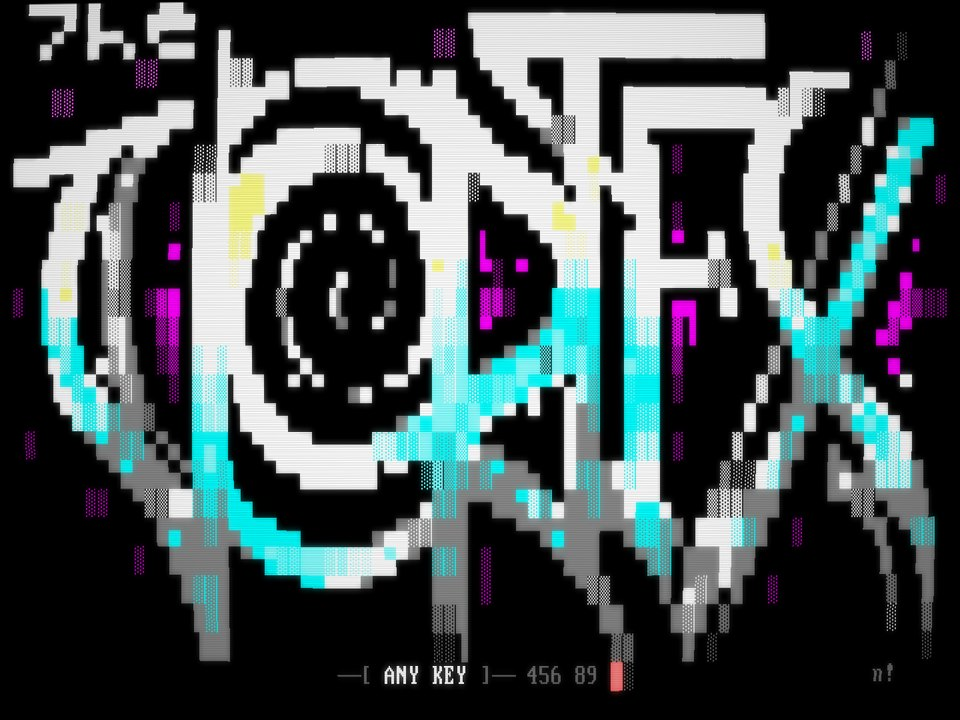
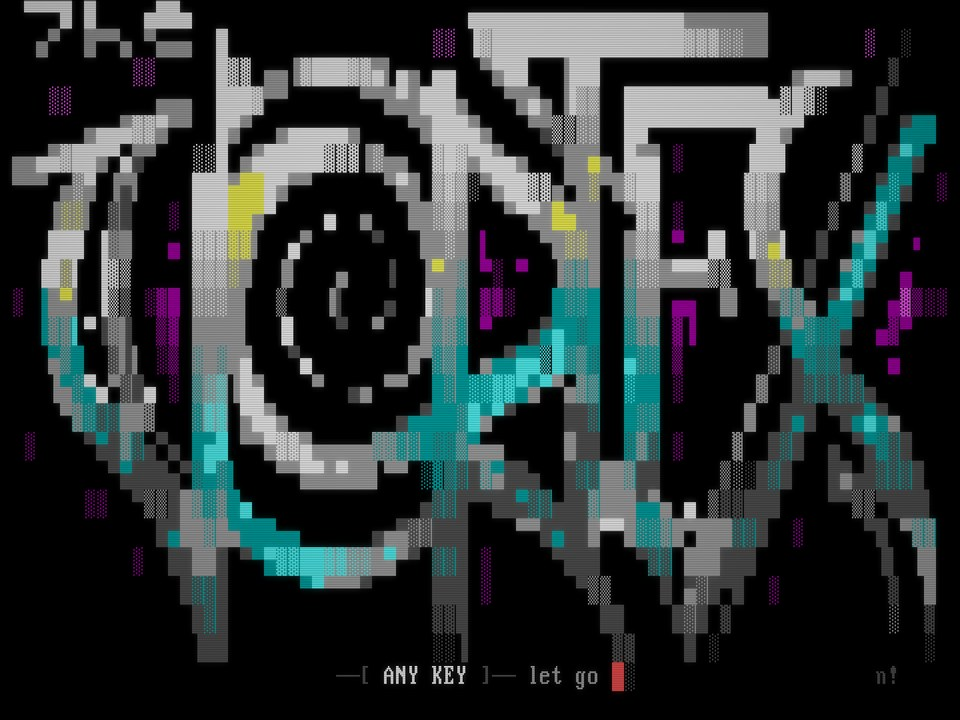
Website: the screenshots retaken, and more systems shown
The Vortex shots (phosphor mode in color, green and amber, off, and on
the four bezels) are drawn again from the Vortex's own opening animation
by this version, whose phosphor mode keeps the colors true. The systems
gallery gains sixel, SyncTERM pictures and a code-page font (a Russian
menu in CP866), from sample screens made by site/samples/make_samples.py,
and mentions Mode 7.

Claude-Session: https://claude.ai/code/session_01F8KB6yGMTk6dZ8eUP3RvhB

diff --git a/site/index.html b/site/index.html
@@ -104,7 +104,7 @@
     <section class="wrap section" id="systems">
       <p class="eyebrow">02 · Systems</p>
       <h2>Every kind of board</h2>
-      <p class="section-lede">Not just ANSI. BadTerm speaks the graphics and character sets of the other machines the BBS scene ran on.</p>
+      <p class="section-lede">Not just ANSI. BadTerm speaks the graphics and character sets of the other machines the BBS scene ran on, and the pictures, sound and fonts of today's boards.</p>
       <div class="gallery three">
         <figure><img class="pixels" src="img/rip.png" width="640" height="344" alt="A RIPscrip scene: sky, sun and hills, a title box and two buttons, with ANSI text over the graphics" loading="lazy"><figcaption><b>RIPscrip</b> vector scenes, with buttons you click</figcaption></figure>
         <figure><img class="pixels" src="img/c64.png" width="1280" height="800" alt="A Commodore 64 BBS menu in PETSCII, with its colors and line graphics" loading="lazy"><figcaption><b>Commodore 64</b> PETSCII, 40 columns</figcaption></figure>
@@ -112,8 +112,11 @@
         <figure><img class="pixels" src="img/viewdata.png" width="640" height="768" alt="A Viewdata page: a double-height title, block graphics in red, yellow and cyan, and a numbered menu" loading="lazy"><figcaption><b>Viewdata</b> Prestel pages, block graphics and double height</figcaption></figure>
         <figure><img class="pixels" src="img/igs.png" width="640" height="400" alt="An Atari ST IGS scene: a sunset sky in bands, a sun behind dark mountains, BADTERM in large letters and a rounded menu box" loading="lazy"><figcaption><b>Atari ST</b> IGS drawings, fills and fonts</figcaption></figure>
         <figure><img class="pixels" src="img/skypix.png" width="640" height="400" alt="An Amiga SkyPix menu: color bands, BadTerm in large letters, a menu in Topaz and filled ellipses" loading="lazy"><figcaption><b>Amiga</b> SkyPix, in Topaz and 16 colors</figcaption></figure>
+        <figure><img class="pixels" src="img/sixel.png" width="640" height="400" alt="A BBS menu with a sixel picture of BadTerm's icon beside it" loading="lazy"><figcaption><b>Sixel</b> pictures, in with the text</figcaption></figure>
+        <figure><img class="pixels" src="img/syncterm.png" width="640" height="400" alt="A sunset picture drawn on the screen with SyncTERM's picture commands, with text about them below" loading="lazy"><figcaption><b>SyncTERM</b> pictures, for Synchronet's doors</figcaption></figure>
+        <figure><img class="pixels" src="img/codepage.png" width="640" height="400" alt="A Russian BBS menu in Cyrillic, in the CP866 code page font, with a box drawn around it" loading="lazy"><figcaption><b>Code pages</b> Cyrillic, Greek, Hebrew and more</figcaption></figure>
       </div>
-      <p class="also">Also <b>sixel</b> pictures, <b>AVATAR</b> (AVT/0+) for Opus and Maximus boards, the Amiga's <b>Topaz</b> and <b>MicroKnight</b> fonts, and <b>UTF-8</b>.</p>
+      <p class="also">Also BBC Micro <b>Mode 7</b>, <b>AVATAR</b> (AVT/0+) for Opus and Maximus boards, the Amiga's <b>Topaz</b> and <b>MicroKnight</b> fonts, and <b>UTF-8</b>.</p>
     </section>
 
     <section class="wrap section" id="screens">

diff --git a/site/samples/make_samples.py b/site/samples/make_samples.py
@@ -1,0 +1,108 @@
+#!/usr/bin/env python3
+"""Write the sample screens for the site's sixel, SyncTERM-picture and
+code-page screenshots (img/sixel.png, img/syncterm.png, img/codepage.png)
+into this folder: sixel-menu.bin, syncterm-pic.bin and cp866.ans. Needs
+Pillow. Then, from the repository's root:
+
+    BADTERM_SIXEL=site/samples/sixel-menu.bin BADTERM_SNAPSHOT_DIR=/tmp/shots \\
+        cargo test -p badterm sixel_snapshot -- --ignored      # -> sixel.png
+    (the same with syncterm-pic.bin)
+    badterm --render site/samples/cp866.ans codepage.png --screen --font cp866
+"""
+
+import base64
+import math
+from pathlib import Path
+
+from PIL import Image
+
+HERE = Path(__file__).resolve().parent
+ICON = HERE.parent.parent / "crates/badterm/assets/icon/badterm-256.png"
+
+
+def sixel(im):
+    q = im.convert("RGB").quantize(colors=128)
+    pal = q.getpalette()[: 128 * 3]
+    w, h = q.size
+    px = q.load()
+    s = ['\x1bP0;1;0q"1;1;%d;%d' % (w, h)]
+    for i in range(len(pal) // 3):
+        r, g, b = pal[i * 3 : i * 3 + 3]
+        s.append("#%d;2;%d;%d;%d" % (i, r * 100 // 255, g * 100 // 255, b * 100 // 255))
+    for band in range(0, h, 6):
+        cols = sorted({px[x, y] for x in range(w) for y in range(band, min(band + 6, h))})
+        for ci, c in enumerate(cols):
+            s.append("#%d" % c)
+            row = []
+            for x in range(w):
+                bits = 0
+                for k in range(6):
+                    if band + k < h and px[x, band + k] == c:
+                        bits |= 1 << k
+                row.append(chr(63 + bits))
+            out, i = [], 0
+            while i < len(row):
+                j = i
+                while j < len(row) and row[j] == row[i]:
+                    j += 1
+                n = j - i
+                out.append(("!%d%s" % (n, row[i])) if n > 3 else row[i] * n)
+                i = j
+            s.append("".join(out))
+            s.append("$" if ci < len(cols) - 1 else "-")
+    s.append("\x1b\\")
+    return "".join(s)
+
+
+def sixel_menu():
+    icon = Image.open(ICON).convert("RGBA")
+    bg = Image.new("RGBA", icon.size, (0, 0, 0, 255))
+    bg.alpha_composite(icon)
+    t = "\x1b[2J\x1b[H\x1b[1;36m Sixel pictures\x1b[0;36m, drawn where the BBS puts them\r\n\r\n"
+    t += "\x1b[3;3H" + sixel(bg.resize((176, 176), Image.LANCZOS))
+    menu = [("G", "Gallery of sixel art"), ("V", "View a picture"), ("U", "Upload your own"), ("Q", "Back to the main menu")]
+    for i, (k, v) in enumerate(menu):
+        t += f"\x1b[{5 + i * 2};32H\x1b[1;33m[{k}]\x1b[0;37m {v}"
+    t += "\x1b[18;32H\x1b[1;30mUp to 256 colors, kept in the\x1b[19;32Hscrollback, scrolling with the text."
+    t += "\x1b[23;1H\x1b[0;36mSelection: \x1b[1;37m"
+    (HERE / "sixel-menu.bin").write_text(t)
+
+
+def syncterm_picture():
+    w, h = 320, 160
+    img = Image.new("RGB", (w, h))
+    p = img.load()
+    for y in range(h):
+        for x in range(w):
+            p[x, y] = (int(20 + y * 0.9), int(10 + y * 0.5), int(60 + y * 0.6))
+            if (x - 220) ** 2 + (y - 95) ** 2 < 38**2:
+                p[x, y] = (255, int(170 + (y - 57) * 0.8), 60)
+            hill = 110 + 18 * math.sin(x / 40) + 10 * math.sin(x / 17)
+            if y > hill:
+                p[x, y] = (int(30 + (y - hill) * 0.5), int(70 + (y - hill) * 0.6), 60)
+    ppm = b"P6 %d %d 255\n" % (w, h) + img.tobytes()
+    t = "\x1b[2J\x1b[H\x1b[1;37m SyncTERM pictures\x1b[0;37m: PPM and JPEG XL, anywhere on the screen\r\n"
+    t += "\x1b_SyncTERM:C;DrawPPMBlob;DX=160;DY=48;ZX=1;ZY=1;%s\x1b\\" % base64.b64encode(ppm).decode()
+    t += "\x1b[15;6H\x1b[0;36mDrawn by the BBS with SyncTERM's commands,"
+    t += "\x1b[16;6Hfrom its cache on your computer or sent with the page."
+    t += "\x1b[18;6H\x1b[1;33mSynchronet's graphical doors draw their frames this way."
+    (HERE / "syncterm-pic.bin").write_text(t)
+
+
+def code_page():
+    t = "\x1b[2J\x1b[H"
+    t += '\x1b[1;44;37m  Доска объявлений "Вихрь"' + " " * 45 + "узел 1 \x1b[0m\r\n\r\n"
+    t += "\x1b[0;36m ╔══════════════════════════════════╗\r\n"
+    for k, v in [("С", "Сообщения"), ("Ф", "Файлы"), ("И", "Игры и двери"), ("Ч", "Чат с сисопом"), ("В", "Выход")]:
+        t += f" ║ \x1b[1;33m[{k}]\x1b[0;37m {v:<29}\x1b[0;36m║\r\n"
+    t += " ╚══════════════════════════════════╝\r\n\r\n"
+    t += "\x1b[0;32m Последний звонок: \x1b[1;37mсегодня, 21:14\r\n"
+    t += "\x1b[0;32m Кодовая страница: \x1b[1;37mCP866 (шрифт от BBS)\r\n\r\n"
+    t += "\x1b[0;37m Ваш выбор: \x1b[1;37m"
+    (HERE / "cp866.ans").write_bytes(t.encode("cp866"))
+
+
+if __name__ == "__main__":
+    sixel_menu()
+    syncterm_picture()
+    code_page()

diff --git a/ROADMAP.md b/ROADMAP.md
@@ -17,10 +17,6 @@ The next things to do, in order.
       mouse copy, Alt-S, directory search and sort, the bell's flash, the
       color schemes
 - [ ] winget and Homebrew, updated from CI on each release
-- [ ] Retake the website's phosphor-mode screenshots (`vortex-*.jpg`,
-      `bezels.jpg`): they predate 0.1.23, whose glow no longer washes out
-      the colors (steps in site/README.md); add ones of Viewdata, IGS and
-      sixel
 
 ## Done (0.1)
 
@@ -103,6 +99,9 @@ The next things to do, in order.
 - [x] A new splash screen and application icon, as ANSI art
 - [x] CI keeps compiled dependencies between runs, and builds a release
       once
+- [x] The website's screenshots retaken (true colors in phosphor mode),
+      with ones of Viewdata, IGS, SkyPix, sixel, SyncTERM pictures and
+      code pages
 ## Connections
 
 - [x] Serial port / modem dialing (`serialport` crate), AT command init strings

diff --git a/site/README.md b/site/README.md
@@ -61,6 +61,11 @@ BADTERM_SNAPSHOT_DIR=/tmp/shots cargo test -p badterm snapshot -- --ignored
 
 They are saved as palette PNGs (a few kilobytes each).
 
+The Vortex screenshots (`vortex-*.jpg`, `vortex-off.png` and `bezels.jpg`,
+four renders with `--bezel` in a 2x2 grid) are from a frame of the Vortex's
+own opening animation, captured as the steps above say, once it has drawn
+its logo.
+
 The other emulations have snapshots of their own, which take a file of what
 a BBS sends (or, for Viewdata, draw a sample page):
 `viewdata_snapshot` (`BADTERM_VIEWDATA`), `igs_snapshot` (`BADTERM_IGS`),

diff --git a/site/samples/README.md b/site/samples/README.md
@@ -1,5 +1,8 @@
 # Sample screens
 
+`make_samples.py` writes the ones for `img/sixel.png`, `img/syncterm.png`
+and `img/codepage.png` (see its notes); the others are here as they are.
+
 What `img/viewdata.png`, `img/igs.png` and `img/skypix.png` are drawn
 from: screens written for the site in each system's own codes (not a BBS's
 art). Not published. From the repository's root:
